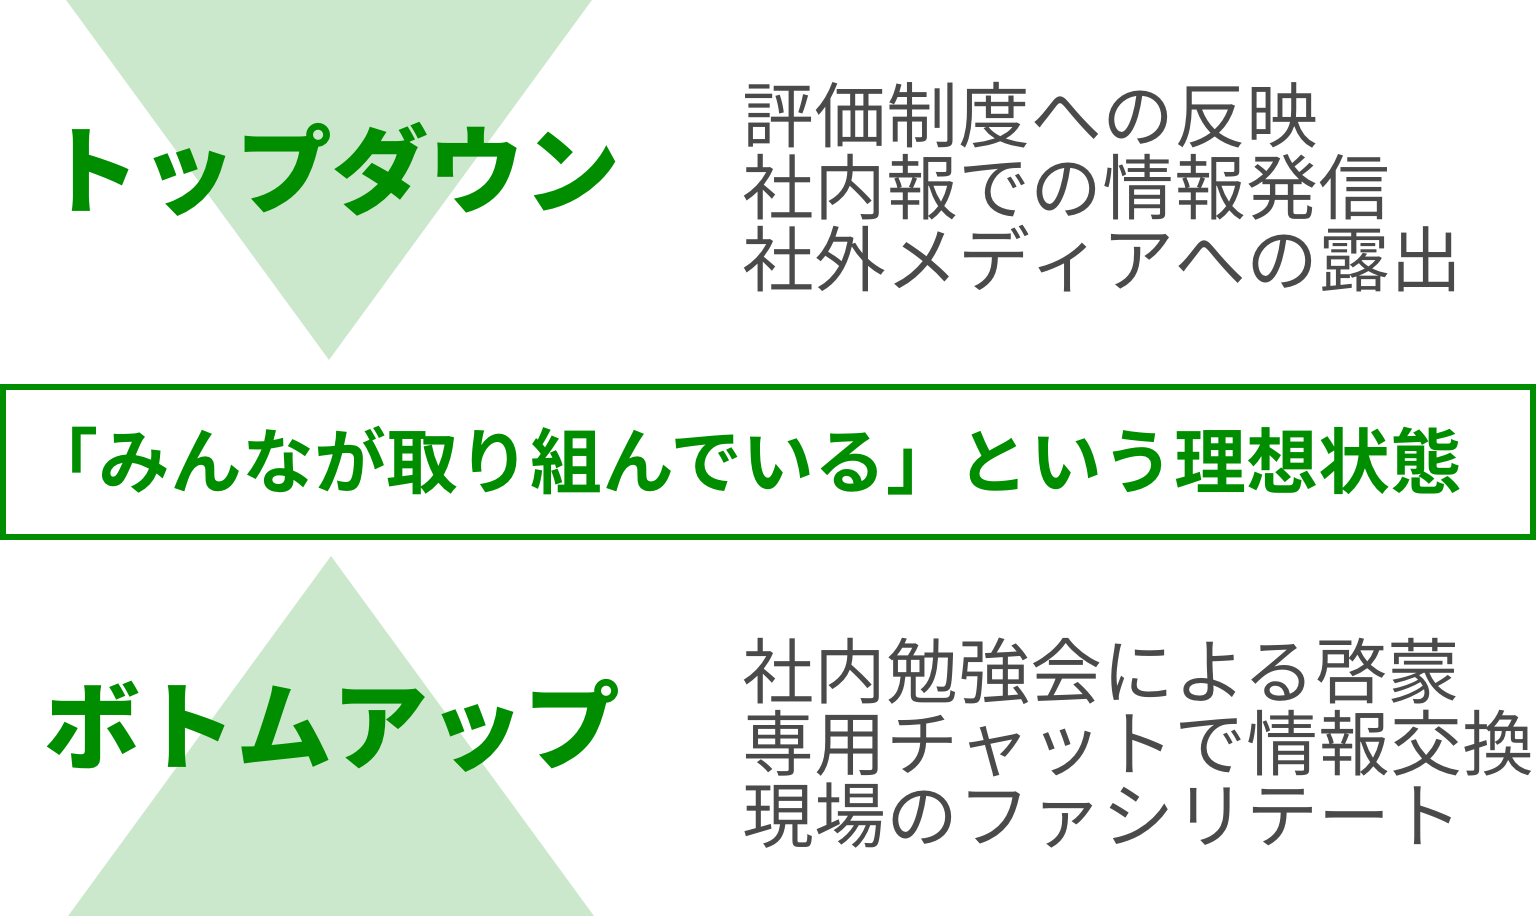
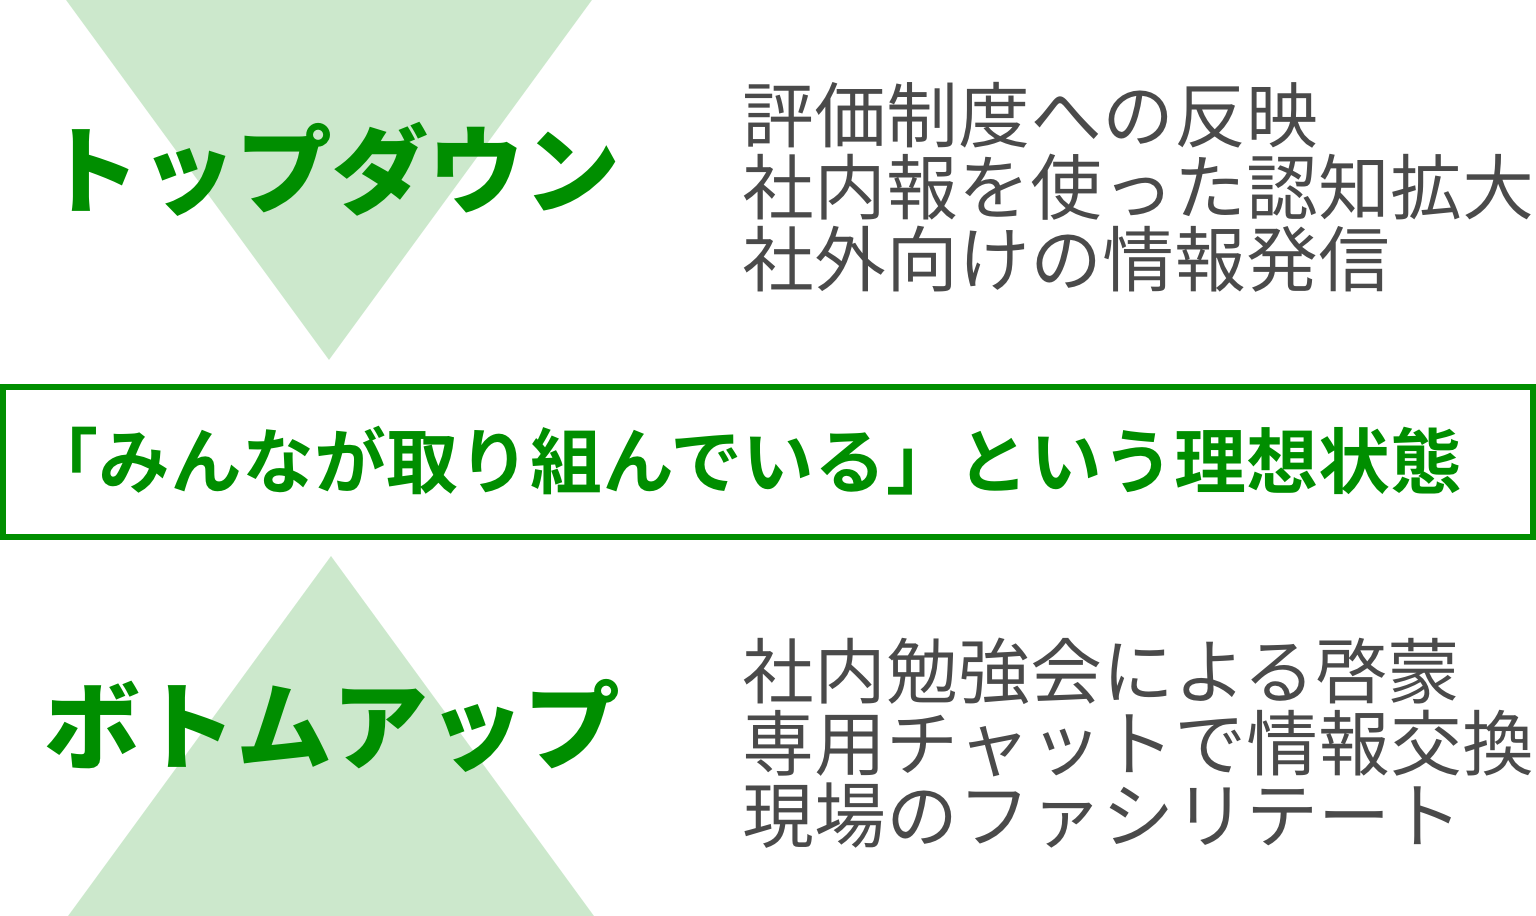
update 170518-a11y_festival

Changed region(s): [[0.5625, 0.1528, 1.0, 0.3362]]

diff --git a/170518-a11y_festival/index.html b/170518-a11y_festival/index.html
@@ -6,6 +6,20 @@
   <link rel="stylesheet" href="./dist/talkie.min.css">
   <link rel="stylesheet" href="./dist/talkie-default.min.css">
   <link rel="stylesheet" href="https://cdnjs.cloudflare.com/ajax/libs/highlight.js/8.9.1/styles/monokai_sublime.min.css">
+  <meta property="og:url" content="http://s.aho.mu/170518-a11y_festival/">
+  <meta property="og:site_name" content="s.aho.mu - 発表資料集">
+  <meta property="og:author" content="ahomu">
+  <meta name="twitter:url" content="http://s.aho.mu/170518-a11y_festival/">
+  <meta name="twitter:site" content="@ahomu">
+  <meta property="og:image" content="http://s.aho.mu/170518-a11y_festival/img/photo-frontrend.jpg">
+  <meta name="twitter:image" content="http://s.aho.mu/170518-a11y_festival/img/photo-frontrend.jpg">
+  <meta property="og:type" content="article">
+  <meta property="og:title" content="CyberAgent が目指すマスメディアとアクセシビリティ">
+  <meta property="og:description" content="アクセシビリティの祭典(2017年5月18日)にて行われたセッション「私たち企業がアクセシビリティに取り組む理由」での発表資料">
+  <meta name="twitter:card" content="summary_image">
+  <meta name="twitter:title" content="CyberAgent が目指すマスメディアとアクセシビリティ">
+  <meta name="twitter:description" content="アクセシビリティの祭典(2017年5月18日)にて行われたセッション「私たち企業がアクセシビリティに取り組む理由」での発表資料">
+  <meta name="description" content="アクセシビリティの祭典(2017年5月18日)にて行われたセッション「私たち企業がアクセシビリティに取り組む理由」での発表資料">
   <style>
     #prev { border-right-color: #ffffff; }
     #next { border-left-color: #ffffff; }
@@ -54,6 +68,9 @@
       background-color: rgba(0, 0, 0, .8);
       padding: 0.3em 0.5em;
     }
+    [layout="bullets"] ul ul {
+      list-style-type: disc;
+    }
   </style>
 </head>
 <body>
@@ -72,9 +89,10 @@
 ## 佐藤 歩 / Ayumu Sato
 
 - 株式会社サイバーエージェント
-- 技術本部 Web Initiative Center (WIC) テックリード
-- **1年前 WIC 設立時にアクセシビリティの強化を決意**
-- セミナー講師、専門誌への寄稿なども手がける
+- 技術本部 Web Initiative Center テックリード
+  - 1 年前に横断的な Web 技術の組織を設立
+  - **設立時にアクセシビリティへの取り組みを強化**
+  - 他、速度改善や先進技術のファシリテートなど
 </script>
 
 <script layout="bullets" type="text/x-markdown">
@@ -194,7 +212,7 @@
 </script>
 
 <script layout="bullets" type="text/x-markdown">
-## 自社サービス改善の取り組み
+## 各現場で行われた取り組み
 
 - 障害者を対象にしたユーザーテストの実施
 - アクセシビリティガイドラインの作成 (進行形)
@@ -225,11 +243,11 @@
 </script>
 
 <script layout="bullets" type="text/x-markdown">
-## 持続的に取り組める体制を<br>目指した仕組み作り
+## 持続的に取り組める組織を<br>目指した仕組み作り
 
 - **一時的プロジェクトではなく、継続的プロセスの確立**
-- 基準を満たしてゴールではなく、改善を続けられる組織へ
-- アクセシビリティに限らず属人的体制は忌避すべき
+- 基準を満たしてゴールではなく、取り組み続けられる組織へ
+- アクセシビリティに限らず属人的な体制は続かない
 </script>
 
 <!--
@@ -274,18 +292,15 @@
 
 新しい技術を追うばかりでなく、クライアントサイド開発者が提供できる価値としてアクセシビリティを再発見させる活動
 </script>
-
-<script layout="title" type="text/x-markdown">
->私は「Web Initiative Center」の理念に強く共感して、この会社であればアクセシビリティに真摯に取り組めると思って入社しました。やっぱり自分が作っているものが価値あるものだと嬉しいですし、より価値の高いものを作っていきたいと思っています。
-</script>
 -->
 
 <script layout="title" invert type="text/x-markdown">
 <img src="./img/figure-strategy.png"
      alt="図:開発現場への啓蒙戦略"
-     longdesc="図説明:トップダウン（評価制度への反映、社内報での情報発信、社外メディアへの露出）とボトムアップ（社内勉強会による啓蒙、専用チャットで情報交換、現場のファシリテート）の両面から開発現場にはたらきかける。">
+     longdesc="図説明:トップダウン（評価制度への反映、社内報を使った認知拡大、社外向けの情報発信）とボトムアップ（社内勉強会による啓蒙、専用チャットで情報交換、現場のファシリテート）の両面から「みんなが取り組んでいる」という理想状態を目指す。">
 </script>
 
+<!--
 <script layout="title" type="text/x-markdown"
         backface="./img/capture-blog.jpg">
 ## [開発者ブログ](https://developers.cyberagent.co.jp/blog/archives/7041/)で紹介<br>→ 社員も見てくれる
@@ -296,7 +311,6 @@
 ## [社外向けセミナー](https://frontrend.connpass.com/event/53985/)でテーマ化<br>→ 社員も参加してくれる
 </script>
 
-<!--
 <script layout="bullets" type="text/x-markdown">
 ## 得られたもの
 
@@ -310,10 +324,9 @@
 <script layout="bullets" type="text/x-markdown">
 ## ポイント
 
-- トップダウンとボトムアップを同時に展開する
 - 評価の保証によってロールモデルやキャリアを開拓する
 - 社外向けの広報も使って、数百人いる社内に方針を伝える
-- アクセシビリティに取り組む！という雰囲気を創出する
+- アクセシビリティに取り組んでいる組織を作り出す
 </script>
 
 <script layout="bullets" type="text/x-markdown">
@@ -321,13 +334,12 @@
 
 - 職種を超えた興味関心の更なる啓蒙
 - 品質管理部門（テスト部隊）との連携強化
-- スマホアプリ（iOS, Android）への展開
+- スマホアプリ（iOS、Android）への展開
 </script>
 
 <!- - - - - - - - - - - - - - - - - - - - - - - - - - ->
 
-<script layout="cover" type="text/x-markdown"
-        backface="./img/bg-back-cover.jpg" backface-filter="blur(1px) brightness(.9)">
+<script layout="cover" type="text/x-markdown">
 ## Be Accessible!<br>ありがとうございました <span>🙇</span>
 
 Web Site [aho.mu](http://aho.mu)<br>Twitter [@ahomu](https://twitter.com/ahomu)
